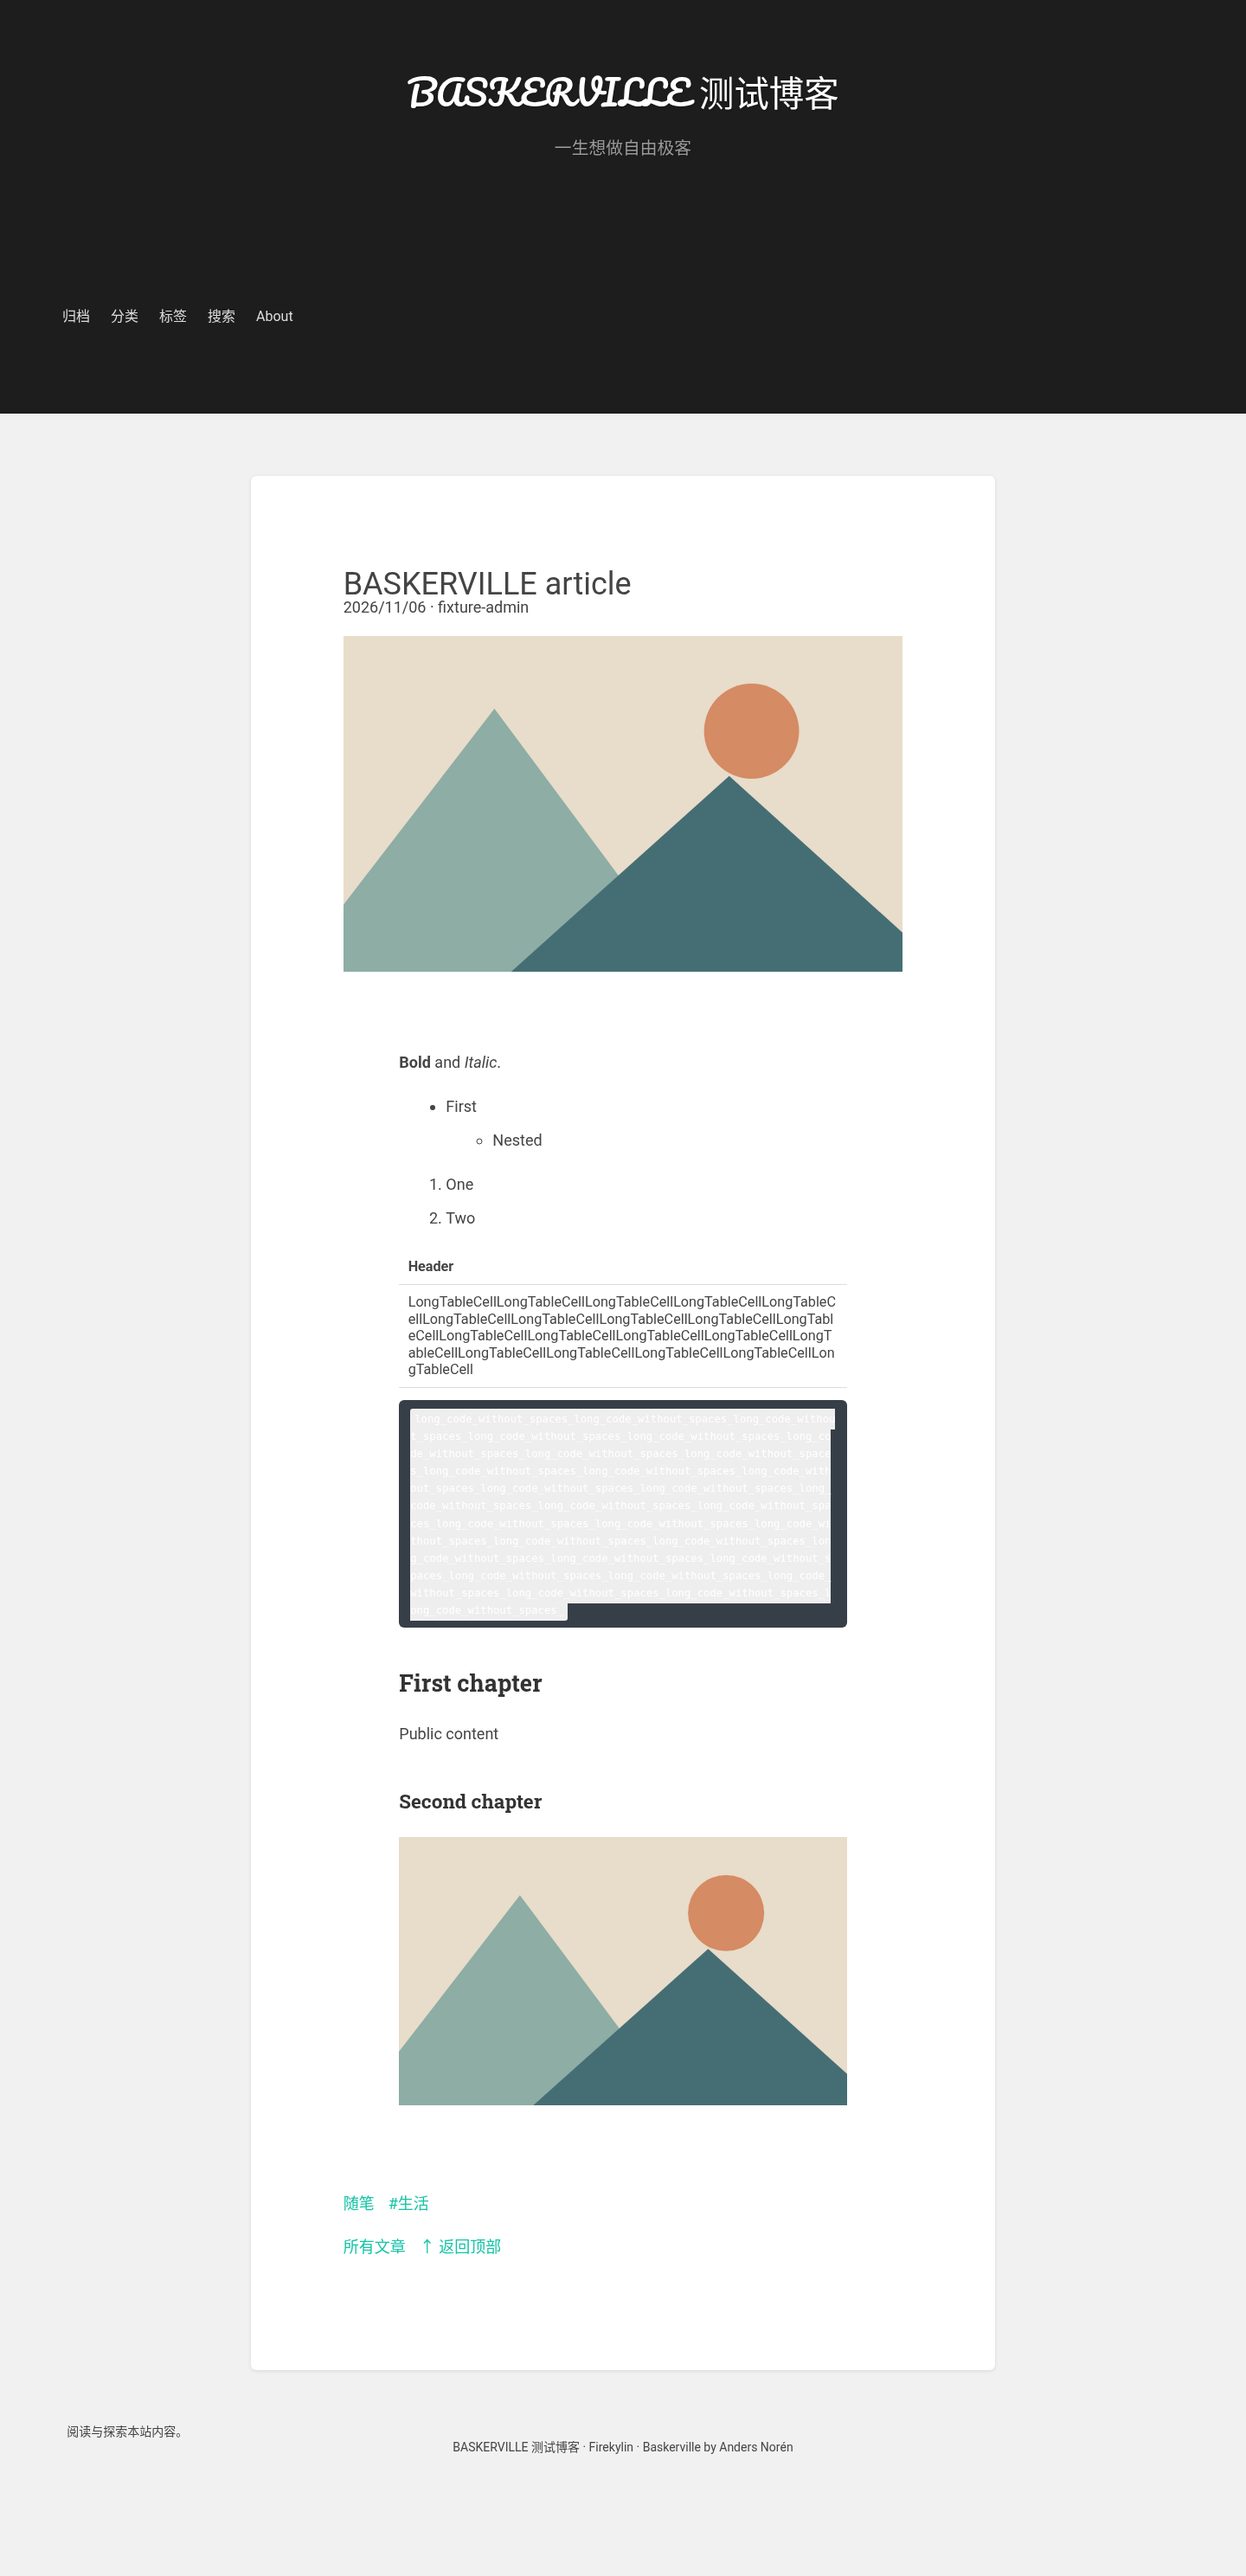
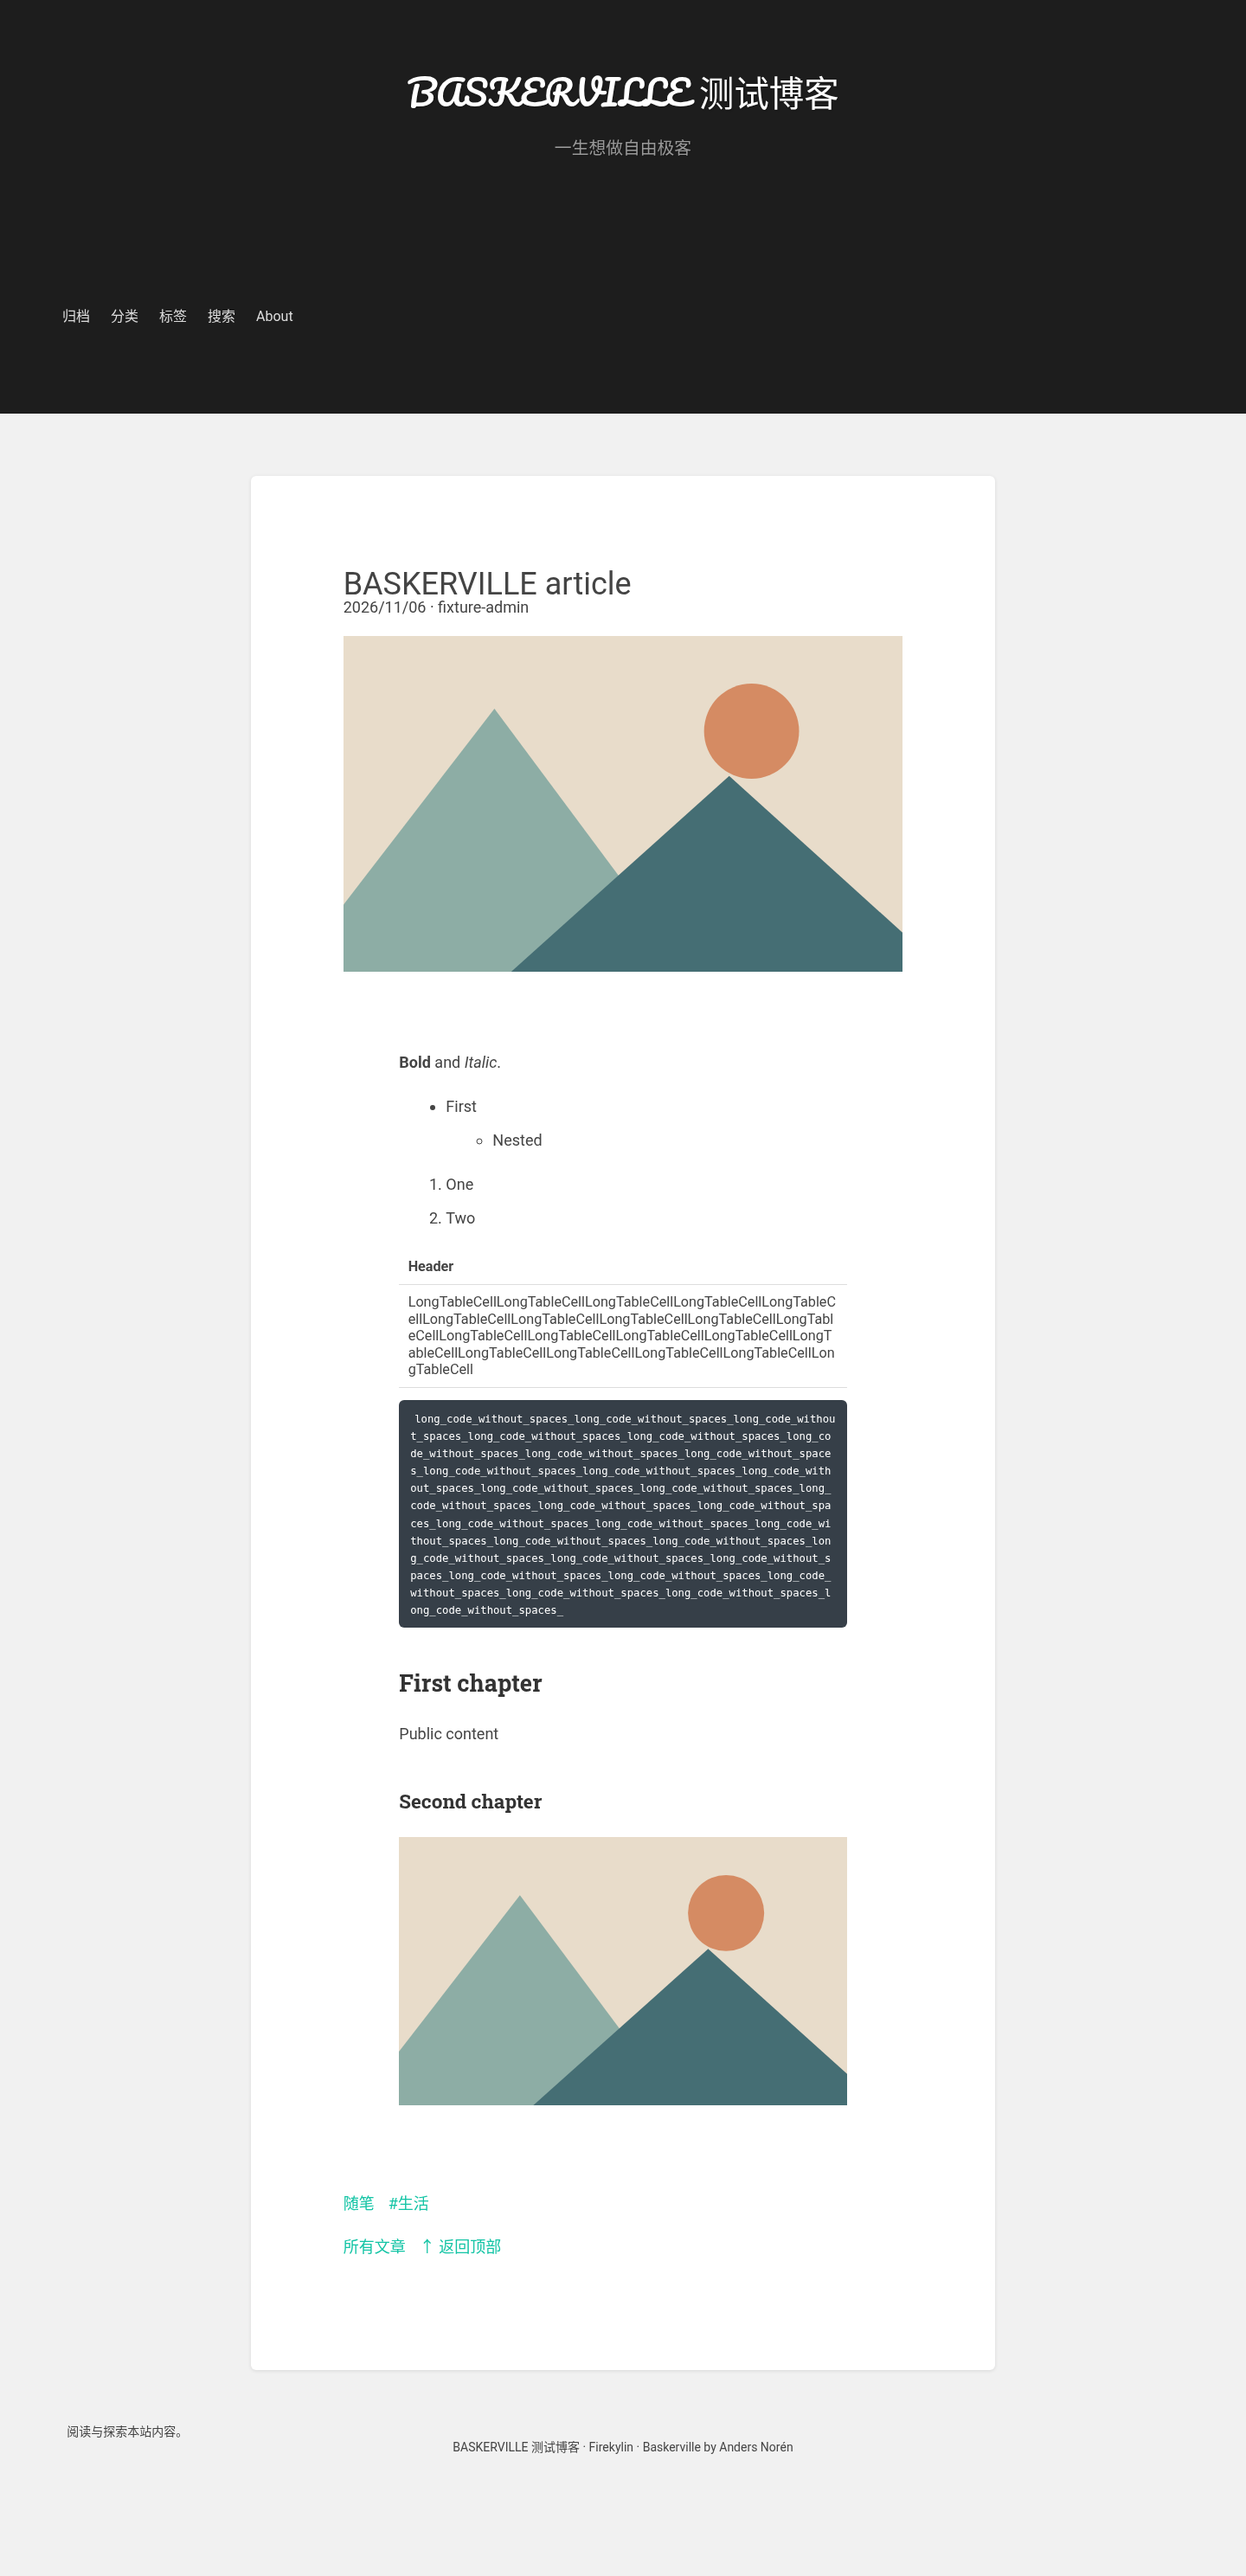
fix: address native layout review and add browser regression

Changed region(s): [[0.3125, 0.5311, 0.6875, 0.656]]

diff --git a/packages/baskerville/res/css/theme.css b/packages/baskerville/res/css/theme.css
@@ -3184,4 +3184,4 @@ img#wpstats { display: none; } /* Silly WordPress stats */
 }
 /* Native Firekylin API integration; original theme styling above. */
 body{overflow-wrap:anywhere}.native-skip{position:absolute;top:-100px}.native-skip:focus{top:0;z-index:100}.native-nav{display:flex;flex-wrap:wrap;gap:12px 24px;align-items:center;font-size:16px;line-height:1.6;margin:24px 0}.native-nav a{display:block}.native-main{min-width:0}.native-main>form{display:flex;gap:10px;flex-wrap:wrap;margin:24px 0}.native-main>h1{margin:24px 0}.native-main input,.native-main button{font:inherit;max-width:100%;box-sizing:border-box}.native-main input{min-width:0}.pagination{display:flex;position:static;inset:auto;clear:both;justify-content:space-between;gap:16px;margin:32px 0;font-size:16px}.native-cover{display:block;width:100%;height:auto;max-width:100%;object-fit:cover}.native-detail .native-cover{margin:24px 0}.native-detail{min-width:0}.native-detail .prose{font-size:18px;line-height:1.7}.prose pre{max-width:100%;overflow:auto}.prose table{display:block;width:100%;max-width:100%;overflow:auto}.prose th,.prose td{min-width:100px}.prose img,.attachment-media img{max-width:100%;height:auto}.attachment-media video,.attachment-media audio,.prose iframe{max-width:100%}.prose ul{list-style:disc;padding-left:1.5em}.prose ol{list-style:decimal;padding-left:1.5em}.prose li{display:list-item;list-style:inherit}.prose ul ul{list-style:circle}.prose strong{font-weight:700}.prose em{font-style:italic}.post-actions,.tags{display:flex;flex-wrap:wrap;gap:16px;margin:24px 0}.native-detail .post-footer{position:static;display:block;background:none;color:inherit;padding:0;margin:24px 0;height:auto}.native-footer{text-align:center;clear:both;margin:40px 0;padding:24px;font-size:14px;line-height:1.7}.native-footer a{color:inherit}.entry{min-width:0}:focus-visible{outline:2px solid currentColor!important;outline-offset:3px}
-.navigation .native-nav{margin:0;padding:20px 0}.navigation .native-nav a{color:#ddd}.native-grid{display:grid;grid-template-columns:repeat(3,minmax(0,1fr));gap:30px}.native-grid .post-container{width:auto;position:static;margin:0;float:none}.native-detail{background:white;padding:8%;max-width:860px;margin:0 auto}.native-detail .post-title{font-size:2em}@media(max-width:900px){.native-grid{grid-template-columns:repeat(2,minmax(0,1fr))}}@media(max-width:650px){.native-grid{grid-template-columns:1fr}}
+.navigation .native-nav{margin:0;padding:20px 0}.navigation .native-nav a{color:#ddd}.native-grid{display:grid;grid-template-columns:repeat(3,minmax(0,1fr));gap:30px}.native-grid .post-container{width:auto;position:static;margin:0;float:none}.native-detail{background:white;padding:8%;max-width:860px;margin:0 auto}.native-detail .post-title{font-size:2em}@media(max-width:900px){.native-grid{grid-template-columns:repeat(2,minmax(0,1fr))}}@media(max-width:650px){.native-grid{grid-template-columns:1fr}}.prose pre code{background:transparent;color:inherit}
